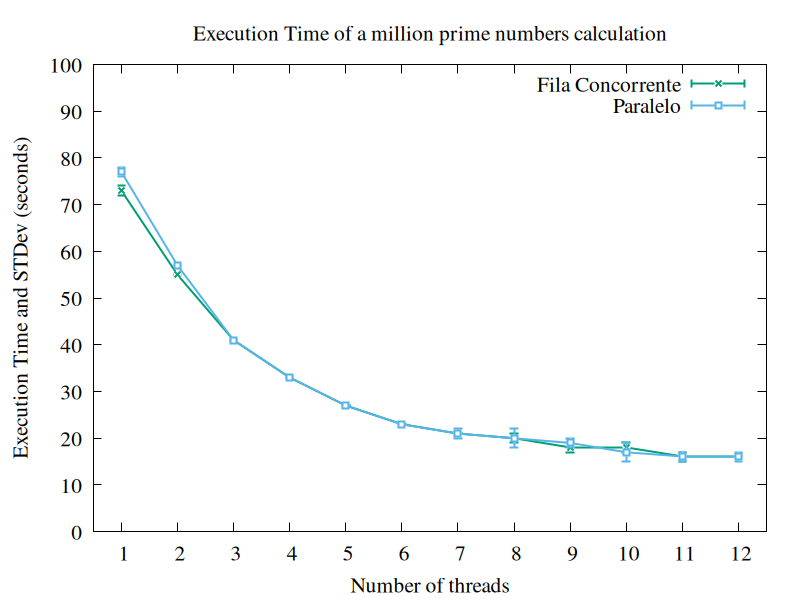
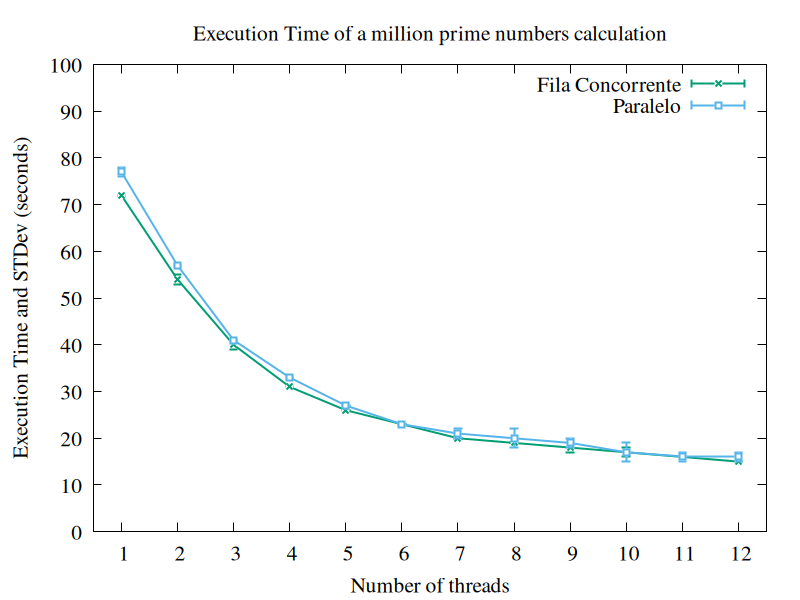
eddit 5

diff --git a/num_primos_fila_concorrente_normal.cpp b/num_primos_fila_concorrente_normal.cpp
@@ -1,82 +1,68 @@
 #include <iostream>
 #include <vector>
-#include <thread>
-#include <mutex>
 #include <chrono>
-#include "concurrentQueue.h"
-
+#include <future>
+#include "concurrentQueue.h" // Inclui o ThreadPool que você forneceu
 
 // Função que verifica se um número é primo
 bool isPrime(int num) {
    if (num <= 1)
        return false;
 
-
-   for (int i = 2; i < num; ++i) {
+   for (int i = 2; i * i <= num; ++i) { // Melhoria: até a raiz quadrada de num
        if (num % i == 0)
            return false;
    }
    return true;
 }
 
-// Função que conta números primos em um intervalo e atualiza o contador global
-void countPrimesInRange(int start, int end, int& count, std::mutex& mtx) {
+// Função que conta números primos em um intervalo e retorna o número local de primos
+int countPrimesInRange(int start, int end) {
     int localCount = 0;
     for (int i = start; i <= end; ++i) {
         if (isPrime(i))
             ++localCount;
     }
-    std::lock_guard<std::mutex> lock(mtx); // Usar um mutex para proteger o contador global
-    count += localCount;
+    return localCount;
 }
 
 int main(int argc, char *argv[]) {
-    // Verifica se os argumentos necessários foram fornecidos
     if (argc < 3) {
         std::cout << "Uso: " << argv[0] << " Tamanho do problema num Threads\n";
         return -1;
     }
 
-    // Converte os argumentos para inteiros
-    int interval = atoi(argv[1]); // Recebe o 1º param que é o intervalo de números a serem verificados
-    int numThreads = atoi(argv[2]); // Recebe o 2º param número de threads a serem usadas
+    int interval = atoi(argv[1]);
+    int numThreads = atoi(argv[2]);
 
-    // Verifica se o número de threads é válido
     if (numThreads <= 0) {
         std::cerr << "O número de threads deve ser maior que zero\n";
         return -1;
     }
 
-    // Marca o tempo de início
     auto t1 = std::chrono::high_resolution_clock::now();
 
-    //Instancia um ThreadPool com o número de threads especificado no parâmetro
-    ThreadPool threadPool(numThreads);
-    int count = 0;
-    std::mutex mtx;
-
-    // Dividir o intervalo de números entre as threads
+    ThreadPool threadPool(numThreads); // Instancia o pool de threads
+    std::vector<std::future<int>> futures; // Guardar os futuros resultados
     int rangeSize = interval / numThreads;
-    std::vector<std::future<void>> futures;
-    
+
     for (int i = 0; i < numThreads; ++i) {
         int start = i * rangeSize;
-        int end = (i == numThreads - 1) ? interval : (i + 1) * rangeSize - 1; // Se for a última thread, o intervalo vai até o final
-        // Envia a tarefa para a fila. A função countPrimesInRange será executada por uma das threads do pool
-        futures.push_back(threadPool.enqueue(countPrimesInRange, start, end, std::ref(count), std::ref(mtx)));
+        int end = (i == numThreads - 1) ? interval : (i + 1) * rangeSize - 1;
+        // Envia a tarefa e armazena o futuro
+        futures.push_back(threadPool.enqueue(countPrimesInRange, start, end));
     }
 
-    // Espera todas as threads terminarem, obtendo o resultado de cada uma delas 
+    // Somar os resultados
+    int totalCount = 0;
     for (auto& future : futures) {
-        future.get();
+        totalCount += future.get();
     }
 
-    // Marca o tempo de fim
     auto t_end = std::chrono::high_resolution_clock::now();
 
-    // Imprime o resultado e o tempo de execução
-    std::cout << count << " números primos entre 0 e " << interval << std::endl;
-    std::cout << "Tempo de execução (seconds): " << std::chrono::duration<double>(t_end - t1).count() << std::endl; // Imprime o tempo de execução inicial - final
+    std::cout << totalCount << " números primos entre 0 e " << interval << std::endl;
+    std::cout << "Tempo de execução (seconds): " << std::chrono::duration<double>(t_end - t1).count() << std::endl;
 
     return 0;
 }

diff --git a/num_primos_paralelo_normal.cpp b/num_primos_paralelo_normal.cpp
@@ -1,7 +1,6 @@
 #include <iostream>
 #include <vector>
 #include <thread>
-#include <mutex>
 #include <chrono>
 
 // Função que verifica se um número é primo
@@ -9,71 +8,64 @@ bool isPrime(int num) {
    if (num <= 1)
        return false;
 
-
-   for (int i = 2; i < num; ++i) {
+   for (int i = 2; i * i <= num; ++i) { // Melhoria: até a raiz quadrada de num
        if (num % i == 0)
            return false;
    }
    return true;
 }
 
-
-
-// Função que conta números primos em um intervalo e atualiza o contador global
-void countPrimesInRange(int start, int end, int& count, std::mutex& mtx) {
+// Função que conta números primos em um intervalo e retorna o número local de primos
+int countPrimesInRange(int start, int end) {
     int localCount = 0;
     for (int i = start; i <= end; ++i) {
         if (isPrime(i))
             ++localCount;
     }
-    std::lock_guard<std::mutex> lock(mtx); // Usar um mutex para proteger o contador global
-    count += localCount;
+    return localCount;
 }
 
 int main(int argc, char *argv[]) {
-    // Verifica se os argumentos necessários foram fornecidos
     if (argc < 3) {
         std::cout << "Uso: " << argv[0] << " Tamanho do problema num Threads\n";
         return -1;
     }
 
+    int interval = atoi(argv[1]);
+    int numThreads = atoi(argv[2]);
 
-    // Converte os argumentos para inteiros
-    int interval = atoi(argv[1]); // Intervalo de números a serem verificados
-    int numThreads = atoi(argv[2]); // Número de threads a serem usadas
-
-    // Verifica se o número de threads é válido
     if (numThreads <= 0) {
         std::cerr << "O número de threads deve ser maior que zero\n";
         return -1;
     }
 
-    // Marca o tempo de início
     auto t1 = std::chrono::high_resolution_clock::now();
 
     std::vector<std::thread> threads;
-    int count = 0;
-    std::mutex mtx;
-
-    // Dividir o intervalo de números entre as threads
+    std::vector<int> localCounts(numThreads, 0); // Contadores locais
     int rangeSize = interval / numThreads;
+
     for (int i = 0; i < numThreads; ++i) {
         int start = i * rangeSize;
         int end = (i == numThreads - 1) ? interval : (i + 1) * rangeSize - 1;
-        // Cria e inicia uma nova thread
-        threads.emplace_back(countPrimesInRange, start, end, std::ref(count), std::ref(mtx));
+        threads.emplace_back([&localCounts, i, start, end]() {
+            localCounts[i] = countPrimesInRange(start, end);
+        });
     }
 
-    // Espera todas as threads terminarem
     for (auto& thread : threads) {
         thread.join();
     }
 
-    // Marca o tempo de fim
+    // Somar os contadores locais
+    int totalCount = 0;
+    for (int count : localCounts) {
+        totalCount += count;
+    }
+
     auto t_end = std::chrono::high_resolution_clock::now();
 
-    // Imprime o resultado e o tempo de execução
-    std::cout << count << " números primos entre 0 e " << interval << std::endl;
+    std::cout << totalCount << " números primos entre 0 e " << interval << std::endl;
     std::cout << "Tempo de execução (seconds): " << std::chrono::duration<double>(t_end - t1).count() << std::endl;
 
     return 0;
